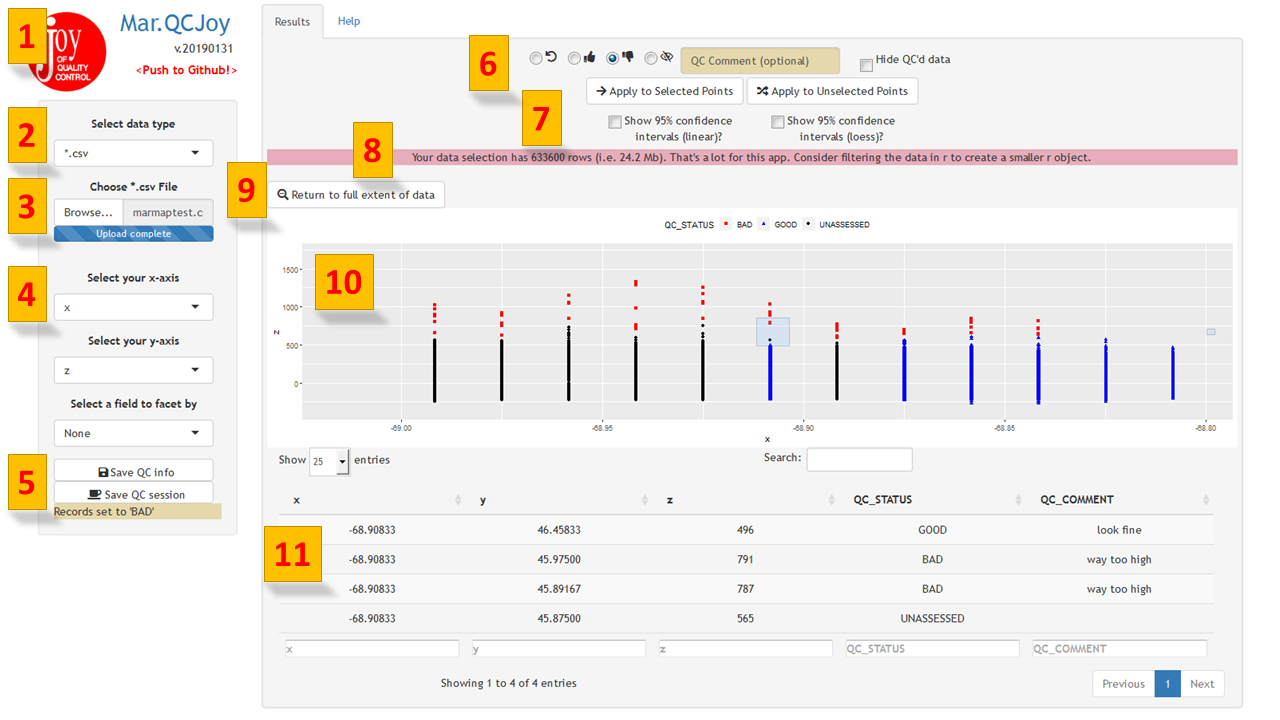
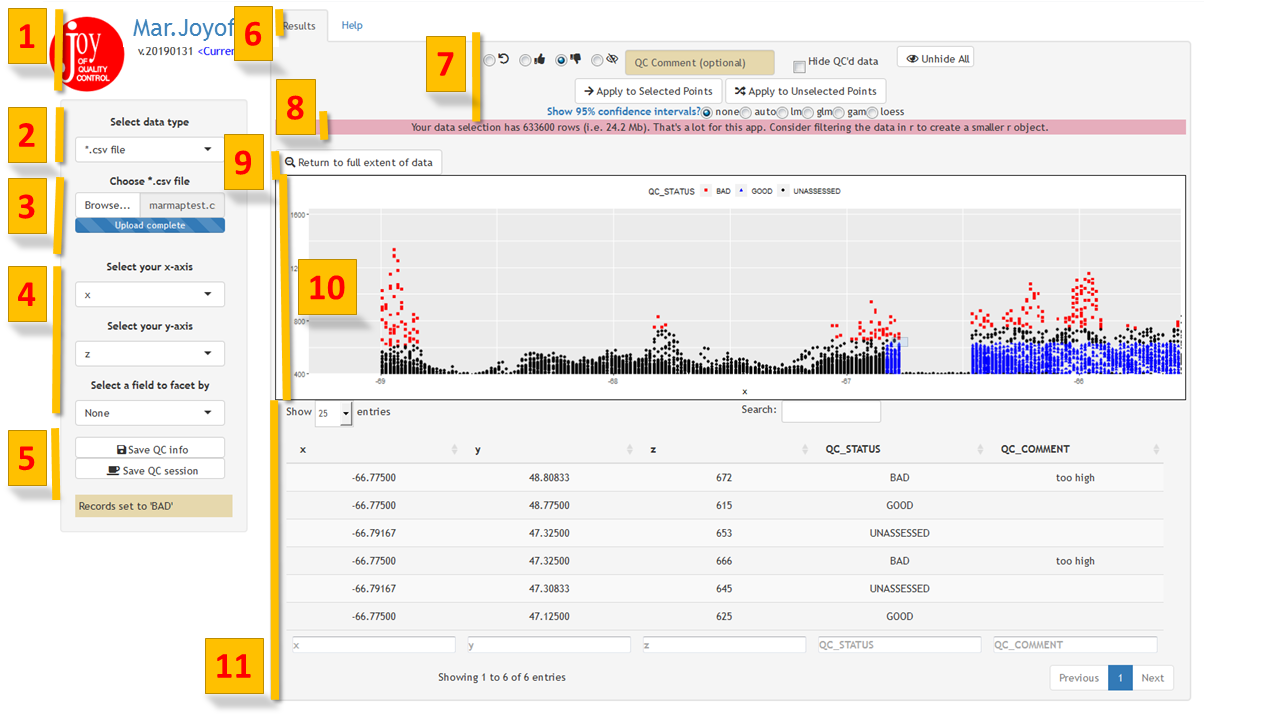
Good?  Send for testing.

diff --git a/www/styles.css b/www/styles.css
@@ -24,6 +24,16 @@ body {
   width: 280px;
  float:left;
 }
+.Pseudolabel{
+   width:100%;
+   display:block;
+  font-family:"Trebuchet MS", Helvetica, sans-serif;
+  font-size:14px;
+  font-weight:bold;
+  margin-bottom:5px;
+  text-align:center;
+}
+
 #logodiv {
    width: 280px;
   text-align:right;
@@ -114,7 +124,7 @@ body {
   vertical-align:bottom;
   text-align:center;
 }
-img {
+#distPlot img {
   border:1px solid black;
 }
 #selDetInput {
@@ -146,6 +156,8 @@ img {
 
 #saveMsg {
   background-color:#e6d8ad;
+  margin-top:1.5em;
+  padding:5px;
   text-align:left; 
   vertical-align: top;
 }
